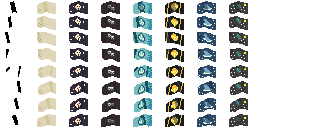
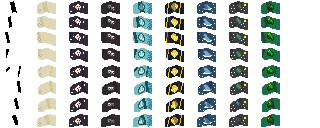
Created and implemented Slime King flag

Changed region(s): [[0.8125, 0.0, 0.875, 1.0]]

diff --git a/FishingTrawler/FishingTrawler/FishingTrawler/Objects/TrawlerRewards.cs b/FishingTrawler/FishingTrawler/FishingTrawler/Objects/TrawlerRewards.cs
@@ -24,17 +24,13 @@ namespace FishingTrawler.Objects
         internal bool hasMermaidsBlessing; // If true, 5% chance of consuming fish but getting treasure chest rewards instead
         internal bool hasPatronSaint; // If true, 25% chance of consuming fish but gives full XP
         internal bool hasWorldly; // If true, allows catching of non-ocean fish
+        internal bool hasSlimeKing; // If true, consumes all fish but gives a 50% chance of converting each fish into some slime, 25% chance to convert to a Slimejack and a 3% chance to convert into a random slime egg 
 
         public TrawlerRewards(Chest rewardChest)
         {
             _rewardChest = rewardChest;
-            _farmer = Game1.player; // Main player will get XP by default, though it can be overridden
 
-            fishCatchChanceOffset = 0f;
-            isGambling = false;
-            hasMermaidsBlessing = false;
-            hasPatronSaint = false;
-            hasWorldly = false;
+            Reset(Game1.player); // Main player will get XP by default, though it can be overridden
         }
 
         public void Reset(Farmer farmer)
@@ -46,6 +42,7 @@ namespace FishingTrawler.Objects
             hasMermaidsBlessing = false;
             hasPatronSaint = false;
             hasWorldly = false;
+            hasSlimeKing = false;
         }
 
         private int[] GetEligibleFishIds(bool allowCatchingOfNonOceanFish = false)
@@ -322,6 +319,23 @@ namespace FishingTrawler.Objects
             }
         }
 
+        private Object GetRandomSlimeEgg()
+        {
+            switch (Game1.random.Next(0, 5))
+            {
+                case 1:
+                    return new Object(437, 1);
+                case 2:
+                    return new Object(439, 1);
+                case 3:
+                    return new Object(680, 1);
+                case 4:
+                    return new Object(857, 1);
+                default:
+                    return new Object(413, 1);
+            }
+        }
+
         internal void CalculateAndPopulateReward(int amountOfFish, int baseXpReduction = 5)
         {
             ModEntry.monitor.Log($"Calculating rewards for {Game1.player.Name} with {amountOfFish} fish caught!", LogLevel.Trace);
@@ -434,6 +448,29 @@ namespace FishingTrawler.Objects
                         bonusXP += caughtXP * ((100 - baseXpReduction) / 100f);
                         selectedReward.Stack--;
                         continue;
+                    }
+
+                    if (hasSlimeKing)
+                    {
+                        switch (Game1.random.NextDouble())
+                        {
+                            case var chance when chance <= 0.50:
+                                _rewardChest.addItem(new Object(766, 1));
+                                selectedReward.Stack--;
+                                continue;
+                            case var chance when chance <= 0.25:
+                                _rewardChest.addItem(new Object(796, 1));
+                                selectedReward.Stack--;
+                                continue;
+                            case var chance when chance <= 0.03:
+                                _rewardChest.addItem(GetRandomSlimeEgg());
+                                selectedReward.Stack--;
+                                continue;
+                            default:
+                                // Lucked out, consume this fish with no replacement
+                                selectedReward.Stack--;
+                                continue;
+                        }
                     }
                 }
 

diff --git a/FishingTrawler/FishingTrawler/FishingTrawler/Objects/Rewards/AncientFlag.cs b/FishingTrawler/FishingTrawler/FishingTrawler/Objects/Rewards/AncientFlag.cs
@@ -22,7 +22,8 @@ namespace FishingTrawler.Objects.Rewards
         MermaidsBlessing,
         PatronSaint,
         SharksFin,
-        Worldly
+        Worldly,
+        SlimeKing
     }
 
     public class AncientFlag : Furniture, ISaveElement, ICustomObject
@@ -166,6 +167,8 @@ namespace FishingTrawler.Objects.Rewards
                     return "The Shark's Fin";
                 case FlagType.Worldly:
                     return "Worldly Flag";
+                case FlagType.SlimeKing:
+                    return "Slime King";
                 default:
                     return "Ancient Flag";
             }
@@ -189,6 +192,8 @@ namespace FishingTrawler.Objects.Rewards
                     return "Extends the fishing trawler trip by one minute, allowing for more time to catch fish.";
                 case FlagType.Worldly:
                     return "Allows the trawler to catch fish not normally available in the ocean.";
+                case FlagType.SlimeKing:
+                    return "Consumes all fish but gives a 50% chance of converting each fish into some slime, 25% chance to convert to a Slimejack and a 3% chance to convert into a random slime egg.";
                 default:
                     return "An ancient flag that faintly shimmers with magic.\n\nPerhaps Murphy would know more about it?";
             }

diff --git a/FishingTrawler/FishingTrawler/FishingTrawler/ModEntry.cs b/FishingTrawler/FishingTrawler/FishingTrawler/ModEntry.cs
@@ -303,6 +303,10 @@ namespace FishingTrawler
                         // Allows catching of non-ocean fish
                         _trawlerRewards.Value.hasWorldly = true;
                         break;
+                    case FlagType.SlimeKing:
+                        // Consumes all fish but gives a 50% chance of converting each fish into some slime, 25% chance to convert to a Slimejack and a 3% chance to convert into a random slime egg
+                        _trawlerRewards.Value.hasSlimeKing = true;
+                        break;
                     default:
                         // Do nothing
                         break;
